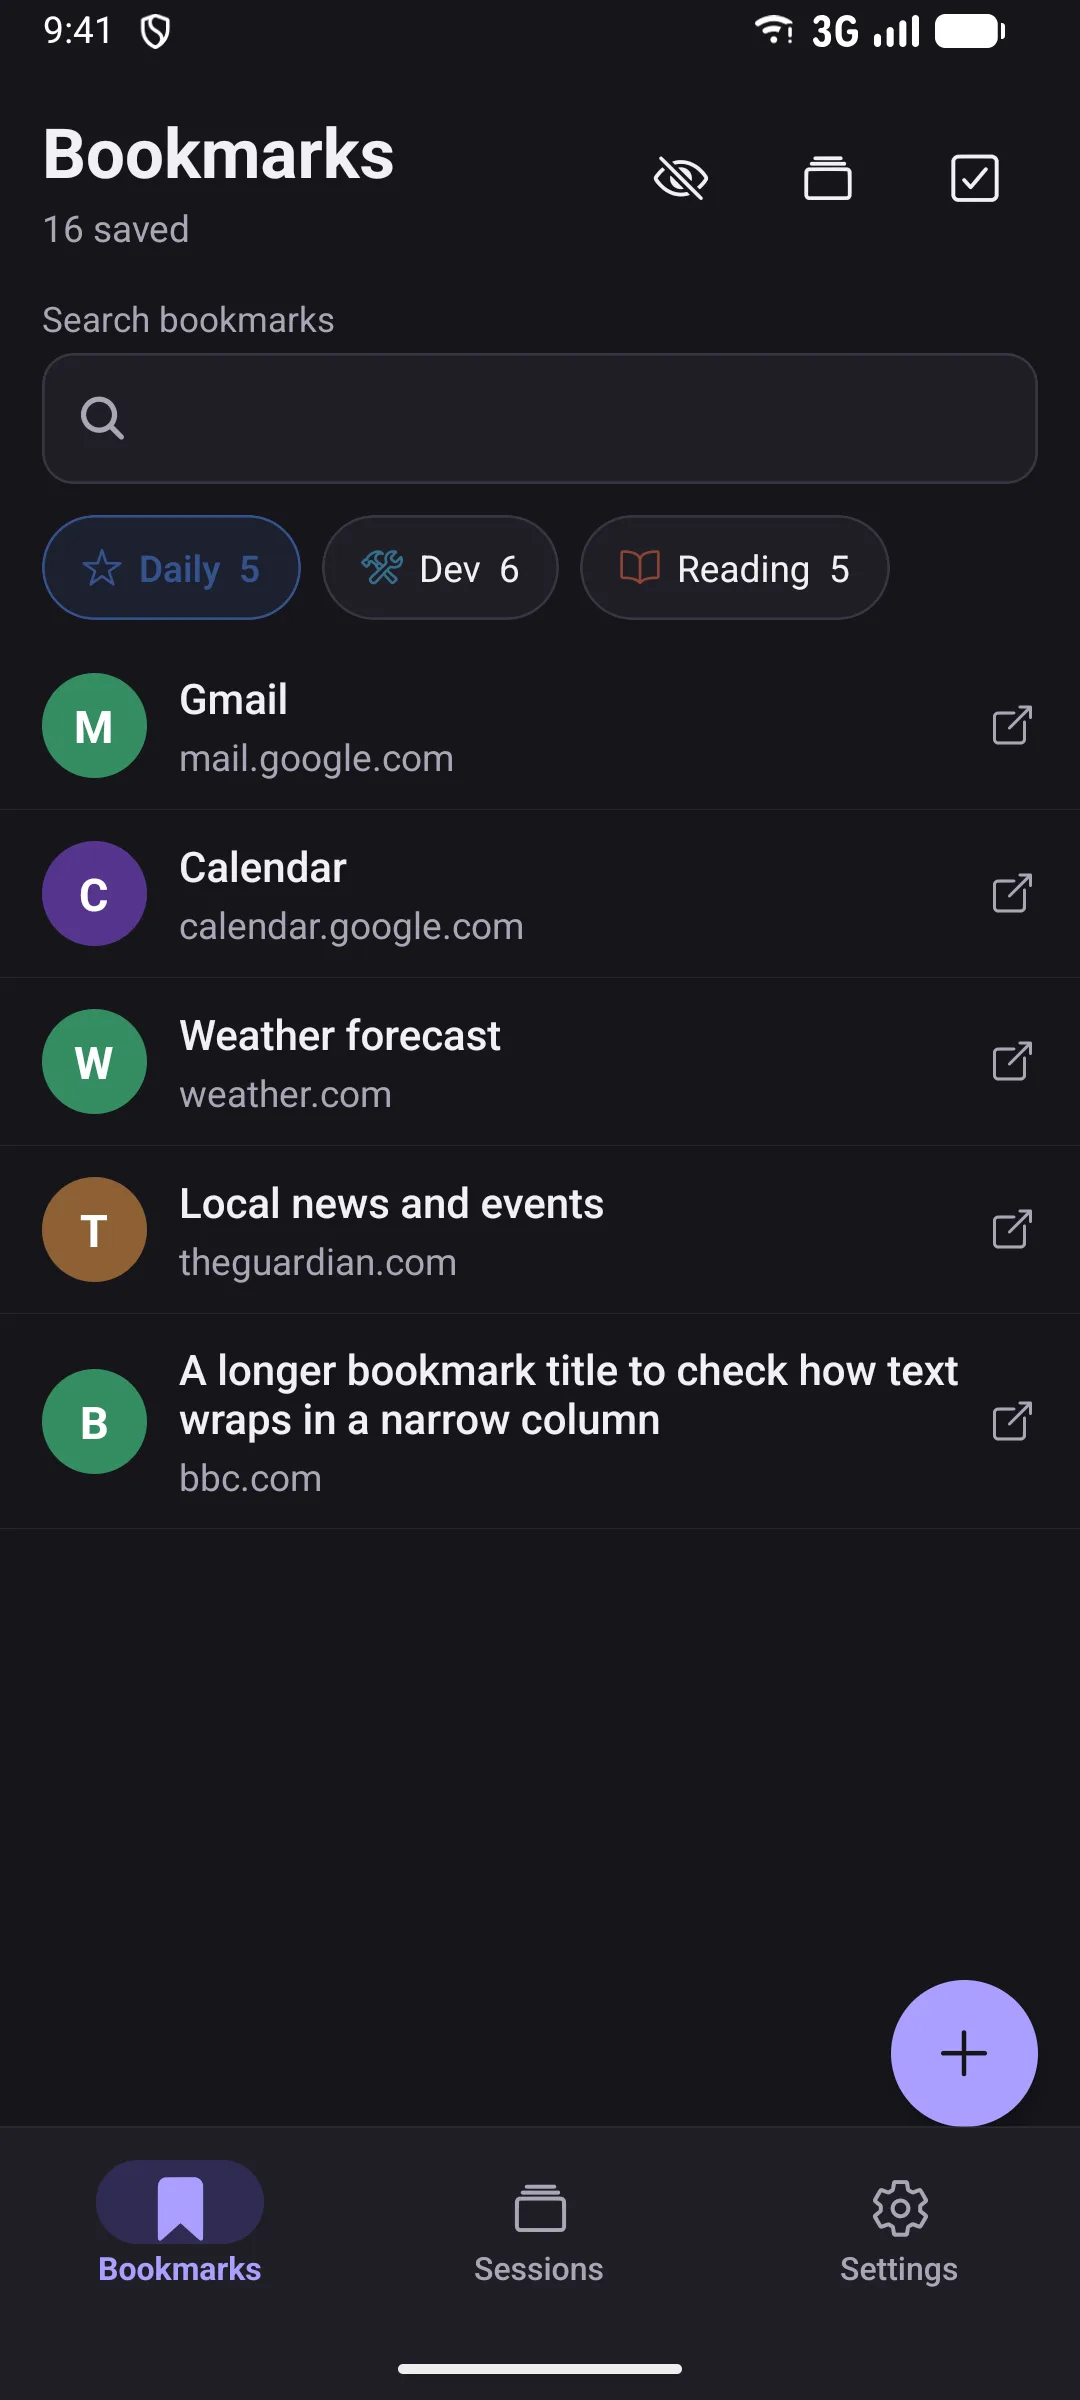
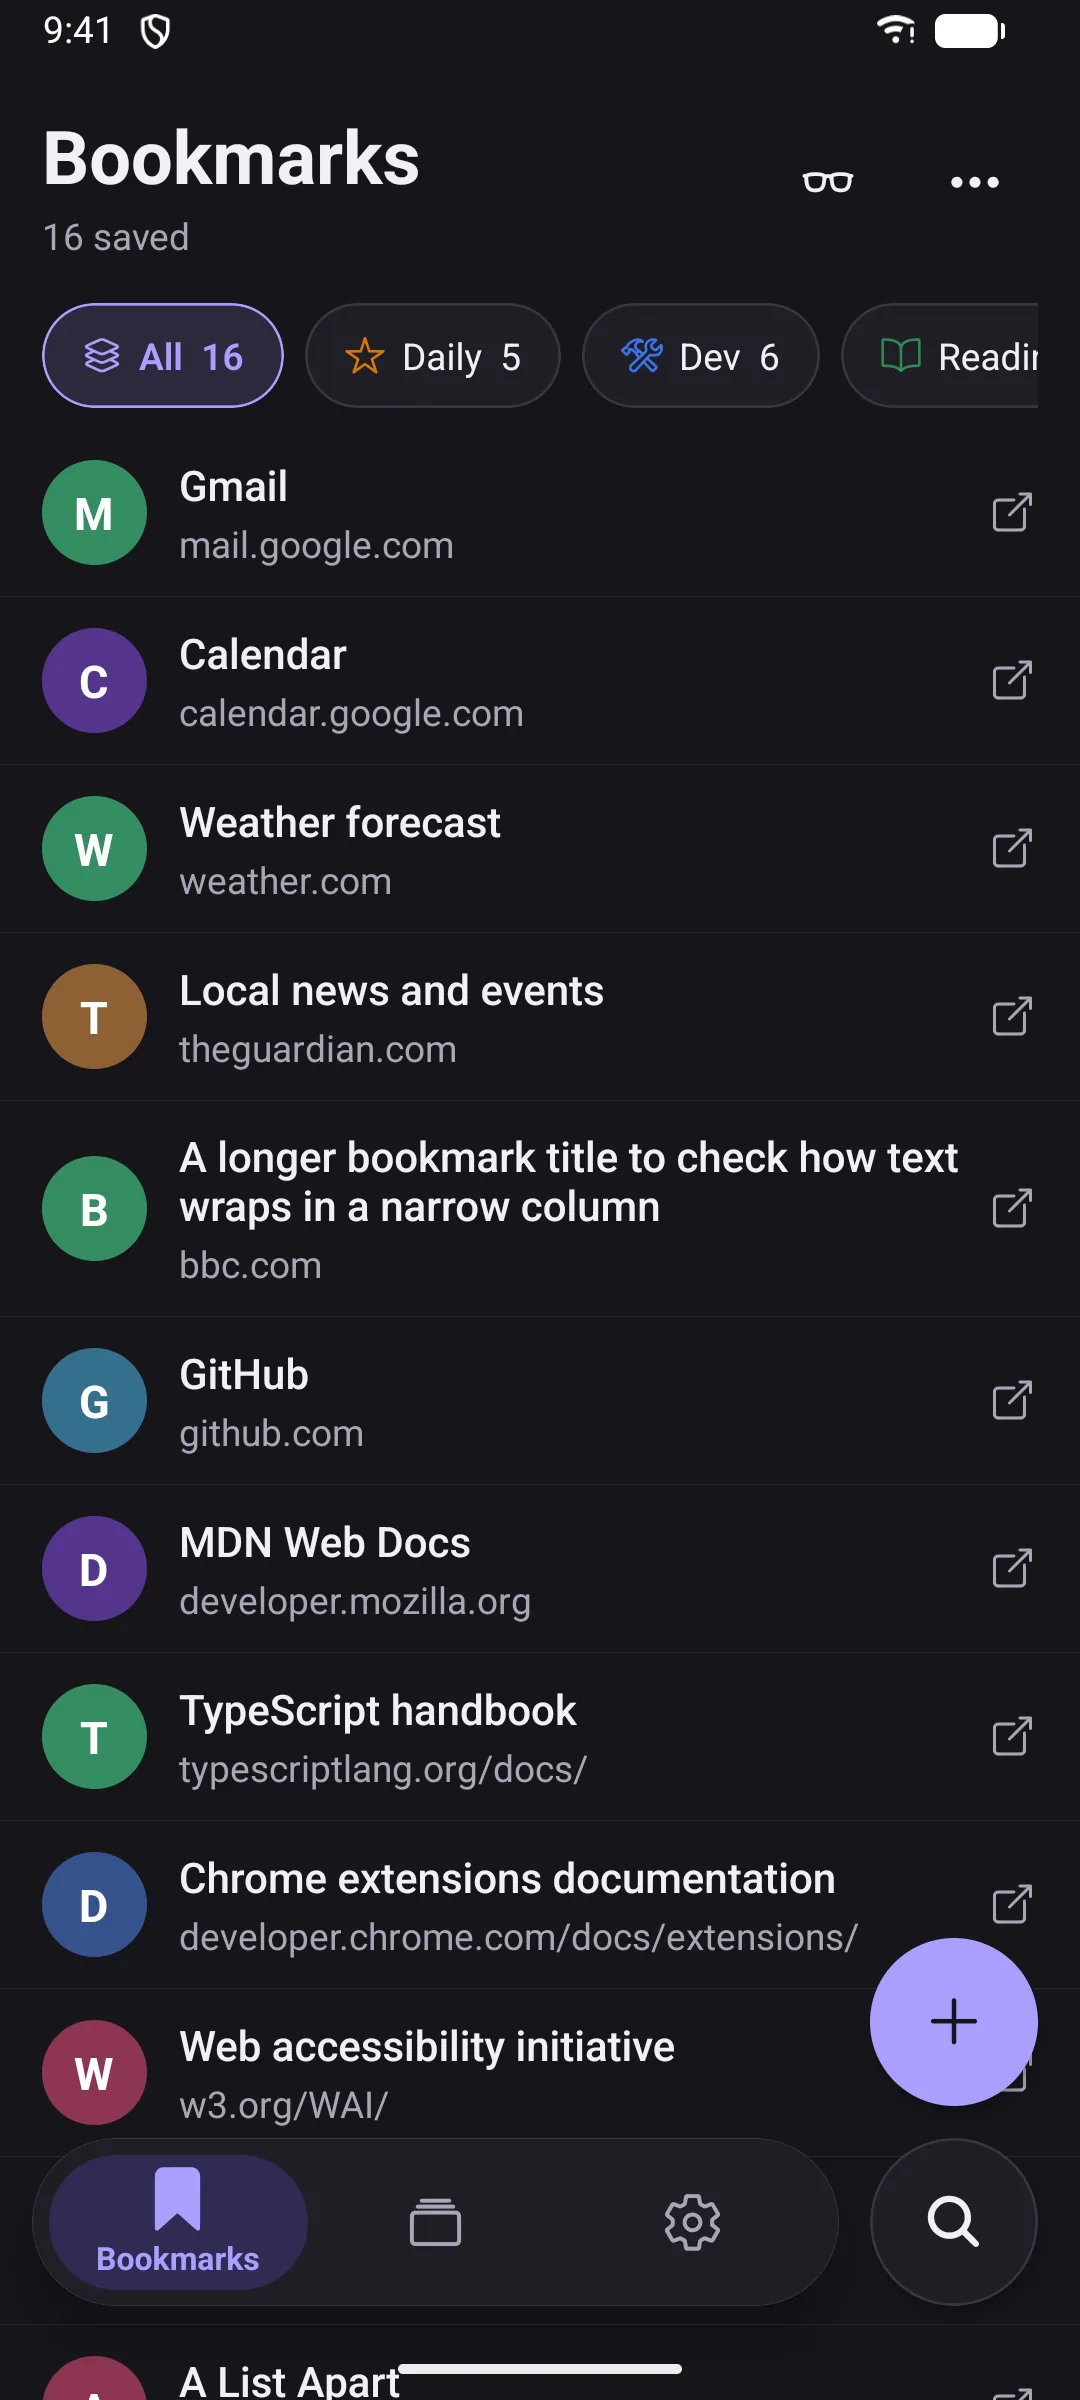
docs: Android screenshots on the site show the floating tab bar

diff --git a/docs/agents/site.md b/docs/agents/site.md
@@ -58,7 +58,7 @@ After changing UI shown in a screenshot:
 2. Capture the affected dashboard, search palette, Settings, or side panel in light and dark themes from the opened dev browser.
 3. Save WebP files in `apps/site/src/assets/`, keeping the existing names: for example, `dashboard-light.webp` and `dashboard-dark.webp`.
 
-The Android section shows `android-bookmarks` and `android-sessions` in both themes. Capture them from the app's release build on an emulator that syncs from a server holding the same synthetic fixture (a development build shows the dev menu button over the screen), set the theme with `adb shell cmd uimode night yes` or `no`, and save them as WebP in `apps/site/src/assets/` at the screen's own size.
+The Android section shows `android-bookmarks` and `android-sessions` in both themes. Capture them from the app's release build on an emulator that syncs from a server holding the same synthetic fixture (a development build shows the dev menu button over the screen), set the theme with `adb shell cmd uimode night yes` or `no`, and save them as WebP in `apps/site/src/assets/` at the screen's own size. Use the app's defaults, so the floating tab bar shows: clear the app's data first (`adb shell pm clear com.bberka.tablodge`) and leave the settings alone. Without a server, a fresh build with the development seed (`apps/mobile/src/library/seed.ts`, which a release build leaves out unless its `__DEV__` checks are lifted for the capture, and that change is never committed) holds the same fixture. Set the status bar to 9:41 with the system UI demo mode.
 
 The fixture is synthetic and deterministic. Seeding replaces TabLodge data in the isolated dev profile and loads local icons from `~/.cache/tablodge/dev-favicons.json`, a machine wide cache shared by worktrees. The first run fetches missing icons from sample sites. Delete the cache file to fetch them again. This network activity happens only when you run `vp run dev:chrome:seed`. The extension itself does not fetch favicons or gain extra permissions. Capture is manual, and there is no screenshot command. Astro optimizes the images during the site build.
 
